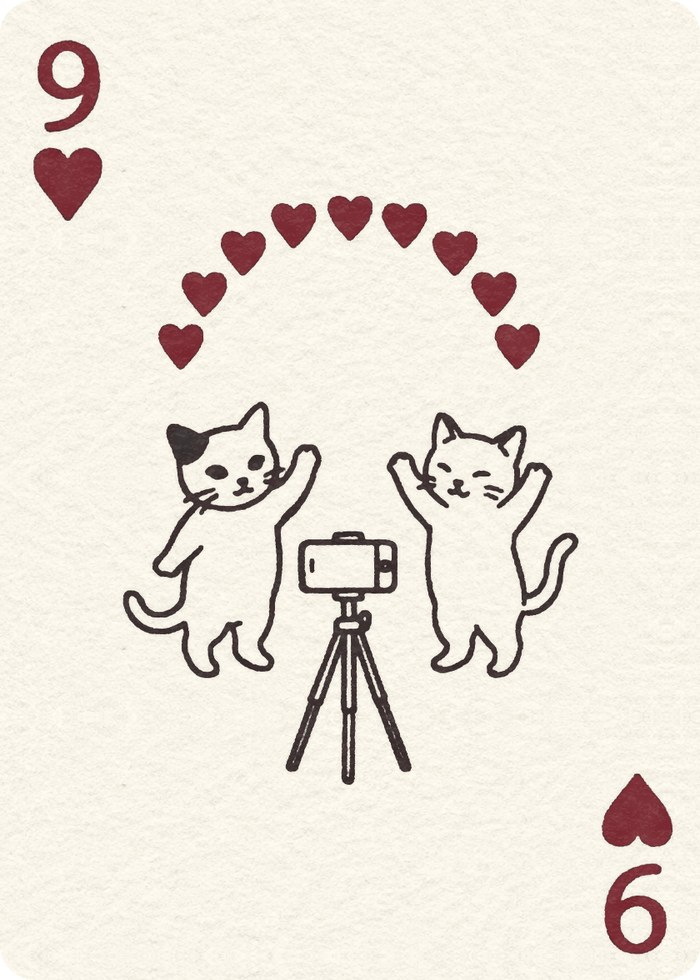
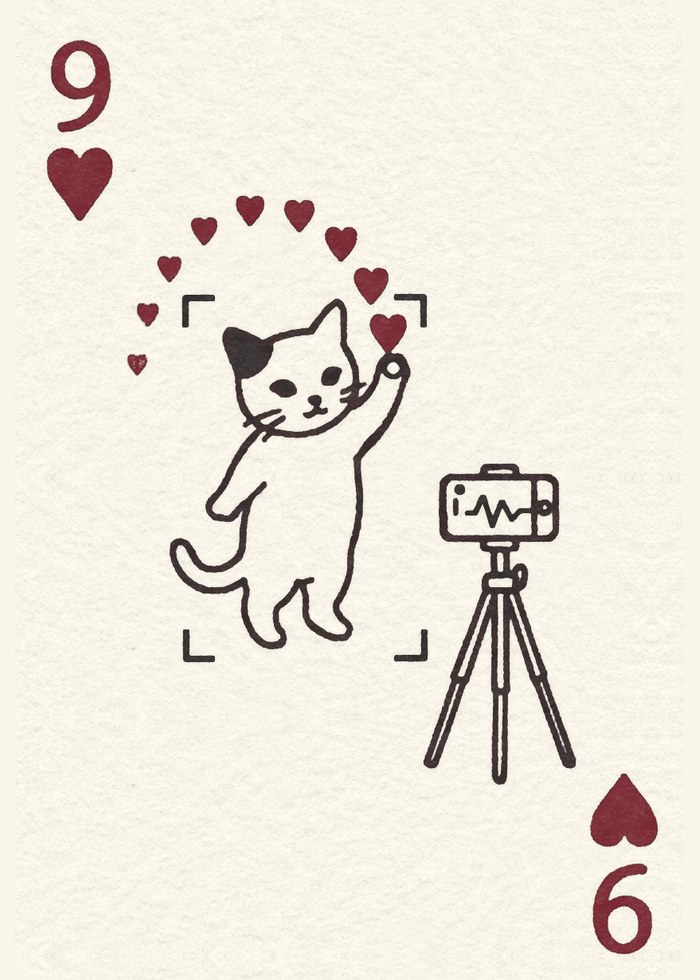
New 9♥ art; Notes paper plane on one smooth curve with a big slow loop, even pace and a speed limit

Changed region(s): [[0.18, 0.1837, 0.84, 0.7959], [0.03, 0.0306, 0.18, 0.2449], [0.84, 0.7653, 0.96, 0.9796]]

diff --git a/lab/notes.html b/lab/notes.html
@@ -273,9 +273,10 @@
   })();
 </script>
 <script>
-// As you scroll, the paper airplane flies from stop to stop: under the big clipped note, past
-// "bench day", "looking up" and "email me", resting a moment at each, then swoops down and
-// climbs away off the left edge a little before the end of the page. It leaves a dashed trail.
+// The paper airplane follows one smooth curve through its stops (under the clipped note, past
+// "bench day", "looking up" and "email me", then off the left edge near the bottom), opening with
+// one big, lazy loop. Its place on the curve is tied to how far you've scrolled, measured along
+// the curve's length so it moves at an even pace, and it can never go faster than a gentle glide.
 (function(){
   const svg=document.querySelector('.paper-plane');
   const Q=sel=>document.querySelector(sel);
@@ -286,103 +287,98 @@
   const start=svg.getBoundingClientRect(), sx=start.left+scrollX, sy=start.top+scrollY, w=start.width;
   wrap.style.width=w+'px'; svg.parentNode.removeChild(svg); wrap.appendChild(svg); document.body.appendChild(wrap);
   const NOSE=Math.atan2(-282,306);
-  let segs=[],marks=[],W=w,Hh=w*.78,cur=0,target=0;
   const box=el=>{const r=el.getBoundingClientRect();return{l:r.left+scrollX,t:r.top+scrollY,r:r.right+scrollX,b:r.bottom+scrollY};};
-  const DWELL=140; // px of scrolling the plane sits still at each stop
+  const DWELL=160;          // px of scrolling the plane rests at each stop
+  const MAXSPEED=7;         // px per frame, at most
+  let W=w,Hh=w*.78,legs=[],marks=[],LOOP=null;
+
+  // ── the route: a Catmull-Rom spline (one continuous, smooth curve through every stop)
+  function cubic(a,b,c,d,t){const u=1-t;return{x:u*u*u*a.x+3*u*u*t*b.x+3*u*t*t*c.x+t*t*t*d.x,y:u*u*u*a.y+3*u*u*t*b.y+3*u*t*t*c.y+t*t*t*d.y};}
   function plan(){
     W=wrap.offsetWidth;Hh=W*.78;const vw=document.documentElement.clientWidth,docH=document.documentElement.scrollHeight;
     const [nb,p1,p4,hi]=stopsEl.map(box);
-    const pts=[
-      {x:sx,y:sy},
-      {x:Math.min(vw-W*.9,nb.r-W*.55),y:nb.b+8},          // just below the clipped note, lower right
-      {x:Math.max(4,p1.l-W*.62),y:p1.b-Hh*.35},            // lower left of "bench day"
-      {x:Math.max(4,p4.l-W*.62),y:p4.b-Hh*.35},            // lower left of "looking up"
-      {x:Math.max(4,hi.l-W*.62),y:hi.b-Hh*.3},             // lower left of "email me"
-      {x:-W*1.3,y:docH-288-Hh}                             // off the left edge, ~3 inches above the bottom
-    ];
-    segs=[];
-    for(let k=1;k<pts.length;k++){
-      const a=pts[k-1],b=pts[k],dx=b.x-a.x,dy=b.y-a.y,side=(k%2?1:-1)*Math.min(vw*.28,Math.abs(dy)*.6+80);
-      let c1={x:a.x+dx*.2+side,y:a.y+dy*.15},c2={x:b.x-dx*.15+side*.8,y:b.y-dy*.3};
-      if(k===pts.length-1){c1={x:a.x-vw*.05,y:a.y+Math.max(160,(b.y-a.y)*.8)+Hh};c2={x:b.x+vw*.35,y:b.y+Hh*1.2};} // dip down, then climb away
-      segs.push([a,c1,c2,b]);
+    const P=[{x:sx,y:sy},
+      {x:Math.min(vw-W*.9,nb.r-W*.55),y:nb.b+8},
+      {x:Math.max(4,p1.l-W*.62),y:p1.b-Hh*.35},
+      {x:Math.max(4,p4.l-W*.62),y:p4.b-Hh*.35},
+      {x:Math.max(4,hi.l-W*.62),y:hi.b-Hh*.3},
+      {x:-W*1.4,y:docH-288-Hh}];
+    const ext=[{x:2*P[0].x-P[1].x,y:2*P[0].y-P[1].y},...P,{x:2*P[5].x-P[4].x,y:2*P[5].y-P[4].y+Hh*2}];
+    LOOP={r:Math.max(110,Math.min(190,vw*.13)),a:.12,b:.62};   // a big, slow loop in the first leg
+    legs=[];
+    for(let k=0;k<P.length-1;k++){
+      const p0=ext[k],p1=ext[k+1],p2=ext[k+2],p3=ext[k+3];
+      const c1={x:p1.x+(p2.x-p0.x)/6,y:p1.y+(p2.y-p0.y)/6},c2={x:p2.x-(p3.x-p1.x)/6,y:p2.y-(p3.y-p1.y)/6};
+      const seg={q:[p1,c1,c2,p2],len:[0]};
+      // arc length table so the plane moves at an even pace along the curve
+      let prev=at0(seg,0,k),L=0;for(let i=1;i<=120;i++){const q=at0(seg,i/120,k);L+=Math.hypot(q.x-prev.x,q.y-prev.y);seg.len.push(L);prev=q;}
+      seg.L=L;legs.push(seg);
     }
-    // scroll positions where each stop is reached; the plane rests there for a beat
-    const maxS=Math.max(1,docH-innerHeight);
-    marks=[0];
-    pts.slice(1,-1).forEach(p=>marks.push(Math.max(marks[marks.length-1]+DWELL+80,p.y-innerHeight*.55)));
-    // leave room at the end for the exit; squeeze the stops proportionally if the page is short
-    const room=maxS-DWELL-260;if(marks[marks.length-1]>room){const f=room/marks[marks.length-1];marks=marks.map(m=>m*f);}
+    // scroll positions for each stop: the stop sits near the middle of the screen when reached
+    const maxS=Math.max(1,docH-innerHeight);marks=[0];
+    P.slice(1,-1).forEach(p=>marks.push(Math.max(marks[marks.length-1]+DWELL+120,p.y-innerHeight*.5)));
+    const room=maxS-DWELL-240;if(marks[marks.length-1]>room){const f=room/marks[marks.length-1];marks=marks.map(m=>m*f);}
     marks.push(maxS);
   }
-  const bez=(q,t)=>{const u=1-t;return{x:u*u*u*q[0].x+3*u*u*t*q[1].x+3*u*t*t*q[2].x+t*t*t*q[3].x,y:u*u*u*q[0].y+3*u*u*t*q[1].y+3*u*t*t*q[2].y+t*t*t*q[3].y};};
-  function pt(k,t){
-    const q=bez(segs[k],t);
-    if(k===0){const s=(t-.16)/.2;if(s>0&&s<1){const r=Math.min(70,innerWidth*.06),th=s*Math.PI*2;q.x+=Math.sin(th)*r;q.y-=(1-Math.cos(th))*r;}}
+  function at0(seg,t,k){
+    const q=cubic(...seg.q,t);
+    if(k===0&&LOOP&&t>LOOP.a&&t<LOOP.b){ // the loop eases in and out so the curve stays smooth
+      const s=(t-LOOP.a)/(LOOP.b-LOOP.a),e=s*s*(3-2*s),th=e*Math.PI*2;q.x+=Math.sin(th)*LOOP.r;q.y-=(1-Math.cos(th))*LOOP.r;}
     return q;
   }
-  // progress p runs 0..segs.length; fractional part is how far along that leg
-  function progress(){
-    const y=scrollY;
-    for(let k=0;k<segs.length;k++){const s0=marks[k]+(k?DWELL:0),s1=marks[k+1];if(y<s1)return k+Math.max(0,Math.min(1,(y-s0)/(s1-s0)));}
-    return segs.length;
+  // distance along the whole route (in px) for the current scroll position
+  const total=()=>legs.reduce((a,l)=>a+l.L,0);
+  function targetDist(){
+    const y=scrollY;let base=0;
+    for(let k=0;k<legs.length;k++){const s0=marks[k]+(k?DWELL:0),s1=marks[k+1];
+      if(y<s1)return base+legs[k].L*Math.max(0,Math.min(1,(y-s0)/(s1-s0)));base+=legs[k].L;}
+    return base;
   }
-  function at(p){
-    const k=Math.min(segs.length-1,Math.floor(p)),t=Math.min(1,p-k);
-    const a=pt(k,t),b=pt(k,Math.min(1,t+.01)),c=t>=.99?pt(k,t-.01):null;
-    return{x:a.x,y:a.y,ang:c?Math.atan2(a.y-c.y,a.x-c.x):Math.atan2(b.y-a.y,b.x-a.x)};
+  function locate(d){ // distance → which leg, how far through it
+    let k=0;while(k<legs.length-1&&d>legs[k].L){d-=legs[k].L;k++;}
+    const L=legs[k].len;let i=1;while(i<L.length-1&&L[i]<d)i++;
+    const f=(d-L[i-1])/Math.max(1e-6,L[i]-L[i-1]),t=Math.min(1,Math.max(0,(i-1+f)/120));return{k,t};
   }
   const NSs='http://www.w3.org/2000/svg',trailSvg=document.createElementNS(NSs,'svg');trailSvg.setAttribute('aria-hidden','true');
   trailSvg.style.cssText='position:absolute;left:0;top:0;z-index:14;pointer-events:none;overflow:visible';
   const trail=document.createElementNS(NSs,'path');
   [['fill','none'],['stroke','#fff4dc'],['stroke-width','2.6'],['stroke-dasharray','12 10'],['stroke-linecap','round'],['opacity','.85']].forEach(([k,v])=>trail.setAttribute(k,v));
   trailSvg.appendChild(trail);document.body.appendChild(trailSvg);
-  function drawTrail(p){
+  function place(d){
+    const {k,t}=locate(d),q=at0(legs[k],t,k),q2=at0(legs[k],Math.min(1,t+.004),k),q0=at0(legs[k],Math.max(0,t-.004),k);
+    const ang=Math.atan2(q2.y-q0.y,q2.x-q0.x),lean=Math.min(1,d/120),rest=-6*Math.PI/180,rot=(1-lean)*rest+lean*(ang-NOSE);
+    // the trail: this leg so far
     trailSvg.setAttribute('width',document.documentElement.scrollWidth);trailSvg.setAttribute('height',document.documentElement.scrollHeight);
-    // only the current leg's trail shows, so each hop draws its own dashed line
-    const k=Math.min(segs.length-1,Math.floor(p)),t=Math.min(1,p-k),steps=Math.max(2,Math.round(t*160));let d='';
-    for(let i=0;i<=steps;i++){const q=pt(k,t*i/steps);d+=(i?' L':'M')+(q.x+W*.42).toFixed(1)+' '+(q.y+Hh*.62).toFixed(1);}
-    trail.setAttribute('d',t>.01?d:'');
-  }
-  let rested=0;
-  function place(p){
-    drawTrail(Math.max(0,p-.015));
-    const q=at(p),frac=p-Math.floor(p);
-    // at rest the nose eases back toward a level glide
-    const restLean=(frac<.02||p>=segs.length)?.35:1, rest=-6*Math.PI/180;
-    const lean=Math.min(1,p*6)*restLean,rot=(1-lean)*rest+lean*(q.ang-NOSE);
-    // always keep the plane inside the part of the page you're looking at (except as it flies off at the very end)
-    const top=scrollY+80,bottom=scrollY+innerHeight-Hh-30,exiting=p>segs.length-.35;
-    let x=q.x,y=Math.max(top,Math.min(bottom,q.y));
-    if(!exiting)x=Math.max(8,Math.min(document.documentElement.clientWidth-W-8,x));
+    const steps=Math.max(2,Math.round(t*140));let path='';
+    for(let i=0;i<=steps;i++){const p=at0(legs[k],t*i/steps,k);path+=(i?' L':'M')+(p.x+W*.42).toFixed(1)+' '+(p.y+Hh*.62).toFixed(1);}
+    trail.setAttribute('d',t>.01?path:'');
+    // gentle guard so it never ends up off screen (not needed in normal scrolling)
+    const exiting=d>total()-legs[legs.length-1].L*.4;
+    let x=q.x,y=Math.max(scrollY+70,Math.min(scrollY+innerHeight-Hh-20,q.y));
+    if(!exiting)x=Math.max(8,Math.min(document.documentElement.clientWidth-W-8,x));else y=q.y;
     wrap.style.transform=`translate(${x}px,${y}px) rotate(${rot}rad)`;
   }
-  let ticking=false;
-  let lastT=0;
+  // ── motion: ease toward the scroll position, never faster than MAXSPEED px a frame;
+  //    only ever forward — scroll back up a long way and a new plane takes over
+  let cur=0,target=0,maxD=0,ticking=false,lastT=0,retiring=false;
   function tick(now){const dt=Math.min(50,now-(lastT||now))/16.7;lastT=now;
-    const step=(target-cur)*(1-Math.pow(1-.045,dt)),cap=.011*dt;
-    cur+=Math.max(-cap,Math.min(cap,step));place(cur);
-    if(Math.abs(target-cur)>.0005)requestAnimationFrame(tick);else{ticking=false;lastT=0;}}
-  // the plane only ever flies forward. Scroll back up a good way and it doesn't reverse: it
-  // sails off and fades, and a fresh one appears where you are (at the top, its starting spot)
-  let maxP=0,retiring=false;
+    const step=(target-cur)*(1-Math.pow(1-.06,dt)),cap=MAXSPEED*dt;cur+=Math.max(-cap,Math.min(cap,step));place(cur);
+    if(Math.abs(target-cur)>.5)requestAnimationFrame(tick);else{ticking=false;lastT=0;}}
   function retire(){
     retiring=true;ticking=false;
-    wrap.animate([{translate:'0 0',opacity:1},{translate:'160px -120px',opacity:0}],{duration:still?1:550,easing:'ease-in',fill:'forwards'}).finished.then(()=>{
-      cur=target=maxP=progress();trail.setAttribute('d','');place(cur);
-      wrap.getAnimations().forEach(a=>a.cancel());
+    wrap.animate([{translate:'0 0',opacity:1},{translate:'160px -120px',opacity:0}],{duration:still?1:600,easing:'ease-in',fill:'forwards'}).finished.then(()=>{
+      cur=target=maxD=targetDist();trail.setAttribute('d','');place(cur);wrap.getAnimations().forEach(a=>a.cancel());
       wrap.animate([{opacity:0,scale:.4},{opacity:1,scale:1}],{duration:still?1:500,easing:'cubic-bezier(.2,.8,.2,1)'}).finished.then(()=>{retiring=false;});
     });
   }
   function onScroll(){
-    if(retiring)return;
-    const pr=progress();
-    if(pr<maxP-.3){retire();return;}
-    maxP=Math.max(maxP,pr);target=maxP;
+    if(retiring)return;const d=targetDist();
+    if(d<maxD-innerHeight*.9){retire();return;}
+    maxD=Math.max(maxD,d);target=maxD;
     if(still){cur=target;place(cur);return;}
     place(cur);if(!ticking){ticking=true;requestAnimationFrame(tick);}
   }
-  plan();cur=target=maxP=progress();place(cur);
+  plan();cur=target=maxD=targetDist();place(cur);
   addEventListener('scroll',onScroll,{passive:true});
   addEventListener('resize',()=>{plan();onScroll();});
   addEventListener('load',()=>{plan();onScroll();});
